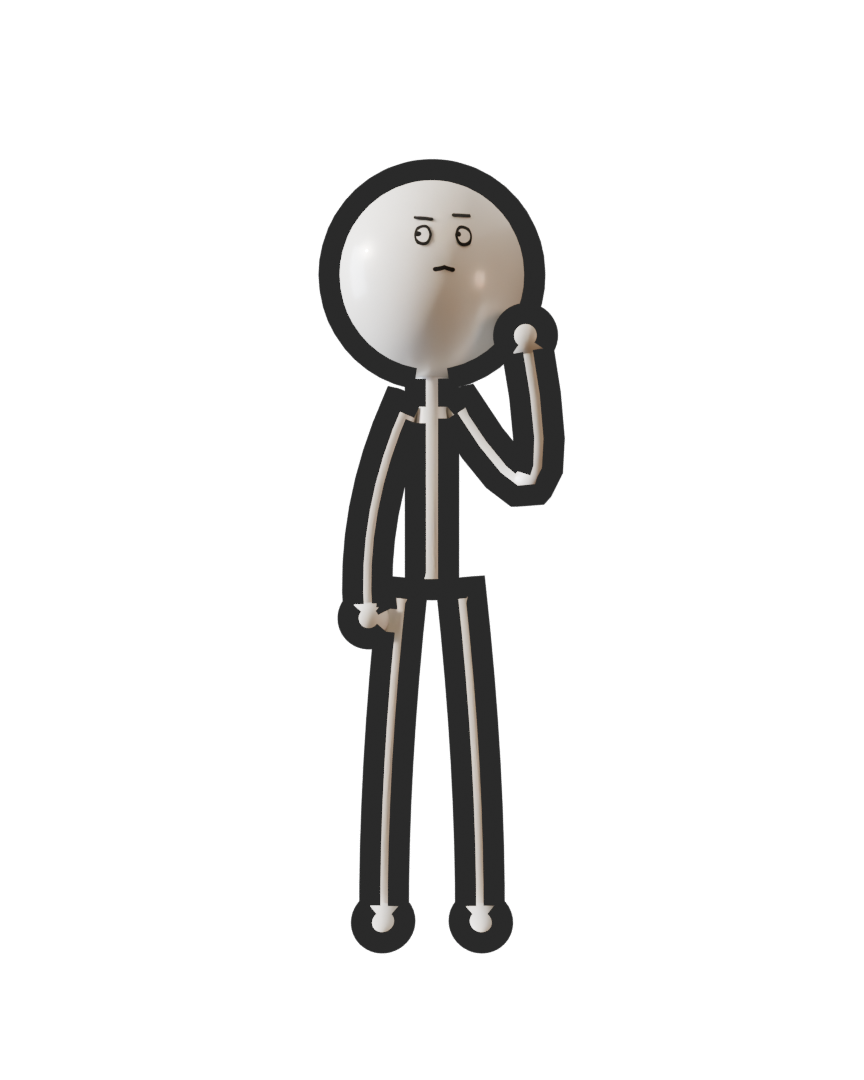
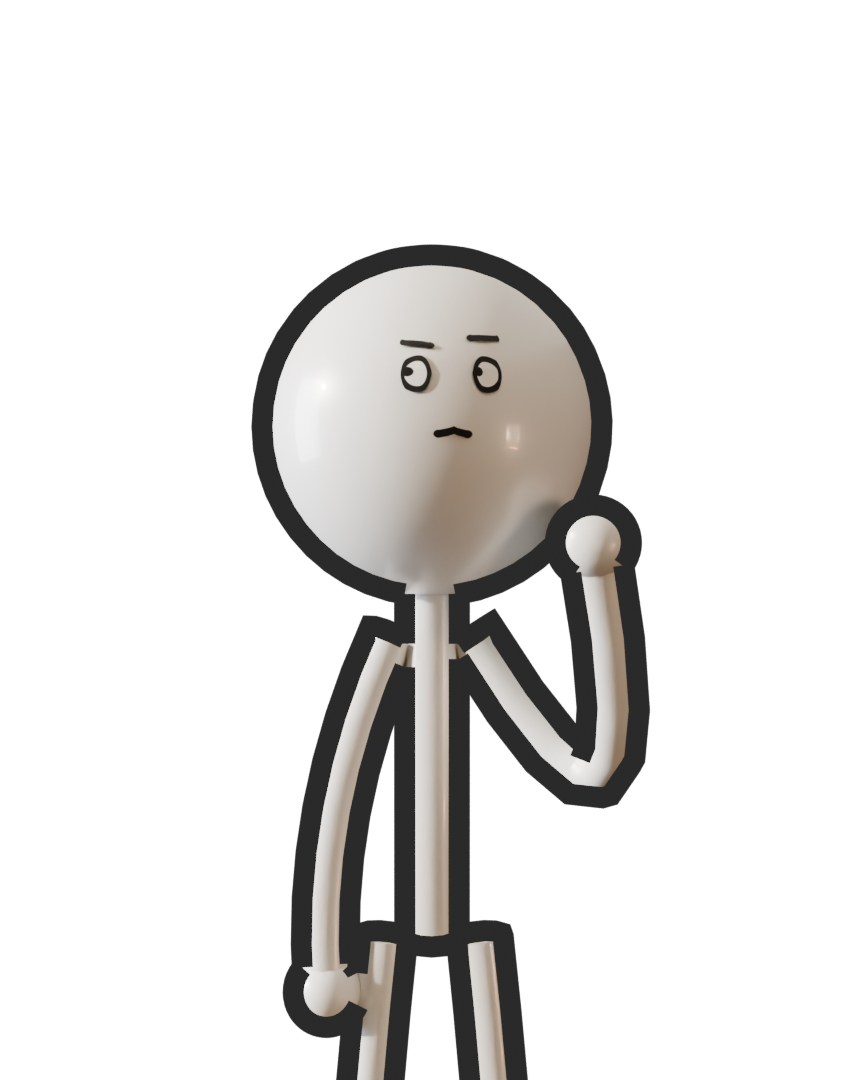
v6 Test1 pass 2: train/rent/search in 3D, big waist-up Dave, bigger home-base cards
Claude-Session: https://claude.ai/code/session_01UUrqY4QLNLVrdTPpXrVhzT

Changed region(s): [[0.2812, 0.1222, 0.75, 1.0]]

diff --git a/src/v6/Test1.tsx b/src/v6/Test1.tsx
@@ -36,7 +36,7 @@ const pick = (f: number, keys: [number, string][]) => {
 
 // ---- home base ---------------------------------------------------------------------------------------------
 // Dave cut-out lower right; instant pose swaps with a 1-frame white silhouette (outline kept), gentle bobble
-const OUTLINE = ['3px 0', '-3px 0', '0 3px', '0 -3px'].map((o) => `drop-shadow(${o} 0 #111)`).join(' ');
+const OUTLINE = ['5px 0', '-5px 0', '0 5px', '0 -5px'].map((o) => `drop-shadow(${o} 0 #111)`).join(' ');
 const Cut: React.FC<{f: number; keys: [number, string][]}> = ({f, keys}) => {
   const name = pick(f, keys);
   const swap = keys.some(([a], i) => i > 0 && f === a);
@@ -44,12 +44,12 @@ const Cut: React.FC<{f: number; keys: [number, string][]}> = ({f, keys}) => {
   return (
     <Img
       src={staticFile(`test1/cut_${name}.png`)}
-      style={{position: 'absolute', right: 40, bottom: -60, height: 900, transformOrigin: '50% 100%', transform: `rotate(${bob}deg)`, filter: swap ? `brightness(0) invert(1) ${OUTLINE}` : `${OUTLINE} drop-shadow(0 20px 30px rgba(0,0,0,0.45))`}}
+      style={{position: 'absolute', right: -40, bottom: 0, height: 1080, transformOrigin: '50% 100%', transform: `rotate(${bob}deg)`, filter: swap ? `brightness(0) invert(1) ${OUTLINE}` : `${OUTLINE} drop-shadow(0 20px 30px rgba(0,0,0,0.45))`}}
     />
   );
 };
 const Wob: React.FC<{f: number; i?: number; children: React.ReactNode}> = ({f, i = 0, children}) => (
-  <div style={{position: 'absolute', inset: 0, transform: `rotate(${Math.sin(f / 23 + i) * 0.6}deg) translateY(${Math.sin(f / 19 + i * 2) * 4}px)`}}>{children}</div>
+  <div style={{position: 'absolute', inset: 0, transformOrigin: '6% 50%', transform: `scale(1.22) rotate(${Math.sin(f / 23 + i) * 0.6}deg) translateY(${Math.sin(f / 19 + i * 2) * 4}px)`}}>{children}</div>
 );
 const Big: React.FC<{children: React.ReactNode; color?: string; size?: number; style?: React.CSSProperties}> = ({children, color = K.white, size = 120, style}) => (
   <div style={{fontFamily: ANTON, fontSize: size, color, lineHeight: 1.05, ...style}}>{children}</div>
@@ -109,7 +109,6 @@ export const Test1: React.FC = () => {
   const t7 = at('t7');
   const t8 = at('t8');
   const rent = at('t8', 'rent');
-  const train = at('t8', 'train');
   const t9 = at('t9');
   const four = at('t9', 'four');
   const zero9 = at('t9', 'zero');
@@ -223,46 +222,43 @@ export const Test1: React.FC = () => {
   } else if (f < t8) {
     // t6 "Day one." chalk board (3D) after a light-leak time skip → t7 maths class cheer (3D)
     scene = <Still name={f < t7 ? 't6_board' : 't7_math'} />;
+  } else if (f < t9) {
+    // t8: the train problem chalked on the board → [fifty] Dave stares at it → [rent] whip to the RENT bill panic
+    const fifty = at('t8', 'fifty');
+    const st = f < fifty ? 't8_board' : f < rent ? 't8_stare' : Math.floor((f - rent) / 2) % 2 ? 't8_rent_b' : 't8_rent';
+    scene = (
+      <>
+        <Smear f={f} at={rent} n={2}>
+          <Still name={st} />
+        </Smear>
+        {f >= fifty && f < rent ? <Big size={110} style={{position: 'absolute', left: 120, top: 100, WebkitTextStroke: '5px #111', transform: `scale(${1.4 - 0.4 * snap(f, fifty, 4)})`}}>50 MINUTES</Big> : null}
+        {f >= rent ? <ComicBurst f={f} at={rent + 2} word="EVERY MONTH" x={470} y={250} rot={-6} /> : null}
+      </>
+    );
+  } else if (f < four) {
+    // t9 "I searched the whole textbook for the word interest" — hunched over the book (3D), search bar types on top
+    scene = (
+      <>
+        <Still name="t9_search" />
+        <div style={{position: 'absolute', left: 140, top: 90, background: '#23252bee', borderRadius: 50, padding: '22px 44px', fontFamily: UI, fontSize: 64, color: '#fff', boxShadow: '0 20px 50px rgba(0,0,0,0.5)', transform: `scale(${0.6 + 0.4 * snap(f, t9 + 4, 6)})`, transformOrigin: 'left'}}>
+          search: {'interest'.slice(0, Math.max(0, Math.floor((f - t9 - 10) / 3)))}
+          <span style={{opacity: Math.floor(f / 8) % 2}}>|</span>
+        </div>
+      </>
+    );
   } else if (f < which) {
-    // t8 + first half of t9: home base, word problem vs rent, then the textbook search
-    const keys: [number, string][] = [[t8, 'count_think'], [rent, 'panic_shock'], [t9, 'point_l_grin'], [zero9, 'idle_dead']];
+    const keys: [number, string][] = [[four, 'count_think'], [zero9, 'idle_dead']];
     scene = (
       <>
         <HomeBase f={f} />
-        {f < rent ? (
-          <Wob f={f}>
-            <UICard f={f} at={t8 + 2} x={170} y={230} w={960} h={560}>
-              <div style={{padding: 50, background: '#f3efe4', height: '100%'}}>
-                <div style={{fontFamily: UI, fontWeight: 700, fontSize: 40, color: '#8a2a20'}}>PROBLEM 7</div>
-                <div style={{fontFamily: UI, fontSize: 50, color: '#222', marginTop: 16, lineHeight: 1.25}}>A train leaves Chicago at 3:00 PM going 60 mph. When does it arrive?</div>
-                <div style={{fontFamily: ANTON, fontSize: 70, color: '#8a2a20', marginTop: 30, opacity: f >= train + 20 ? 1 : 0}}>50 MINUTES</div>
-              </div>
-            </UICard>
-          </Wob>
-        ) : f < t9 ? (
-          <Wob f={f} i={1}>
-            <UICard f={f} at={rent} x={170} y={260} w={960} h={500} push={rent + 8} zoom={1.2}>
-              <div style={{padding: 50}}>
-                <Small color={K.white} size={44}>your bank account · every month</Small>
-                <Big size={170} color={K.red}>− RENT</Big>
-                <Small size={40}>taught in class: 0 seconds</Small>
-              </div>
-            </UICard>
-          </Wob>
-        ) : (
-          <Wob f={f} i={2}>
-            <UICard f={f} at={t9 + 2} x={170} y={200} w={960} h={640}>
-              <div style={{padding: 50}}>
-                <div style={{background: '#2e3036', borderRadius: 40, padding: '22px 36px', fontFamily: UI, fontSize: 54, color: '#fff'}}>
-                  search: {'interest'.slice(0, Math.max(0, Math.floor((f - t9 - 8) / 3)))}
-                  <span style={{opacity: Math.floor(f / 8) % 2}}>|</span>
-                </div>
-                {f >= four ? <Counter f={f} at={four} to={400} suffix=" PAGES" size={130} style={{marginTop: 40}} /> : null}
-                {f >= zero9 ? <Big size={120} color={K.red} style={{marginTop: 10}}>0 RESULTS</Big> : null}
-              </div>
-            </UICard>
-          </Wob>
-        )}
+        <Wob f={f} i={2}>
+          <UICard f={f} at={four} x={170} y={260} w={860} h={520} push={zero9} zoom={1.15}>
+            <div style={{padding: 60}}>
+              <Counter f={f} at={four} to={400} suffix=" PAGES" size={150} />
+              {f >= zero9 ? <Big size={150} color={K.red} style={{marginTop: 10, transform: `scale(${1.5 - 0.5 * snap(f, zero9, 4)})`, transformOrigin: 'left'}}>0 INTEREST</Big> : null}
+            </div>
+          </UICard>
+        </Wob>
         <Cut f={f} keys={keys} />
       </>
     );
@@ -295,8 +291,11 @@ export const Test1: React.FC = () => {
     {at: t6 - 2, src: 'whoosh', v: 0.45},
     {at: t6 + 2, src: 'scribble', v: 0.5},
     {at: t7, src: 'pop', v: 0.4},
-    {at: rent, src: 'buzz', v: 0.45},
-    {at: t9 + 8, src: 'key', v: 0.35},
+    {at: rent, src: 'whoosh', v: 0.5},
+    {at: rent + 2, src: 'buzz', v: 0.45},
+    {at: at('t8', 'fifty'), src: 'pop', v: 0.4},
+    {at: t9 + 10, src: 'key', v: 0.35},
+    {at: four, src: 'tick', v: 0.4},
     {at: zero9, src: 'trombone', v: 0.35},
     {at: which + 10, src: 'dream', v: 0.3},
     {at: t10, src: 'stamp', v: 0.5},
